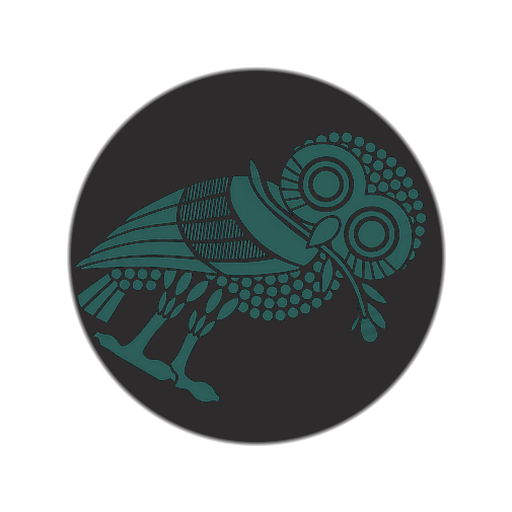
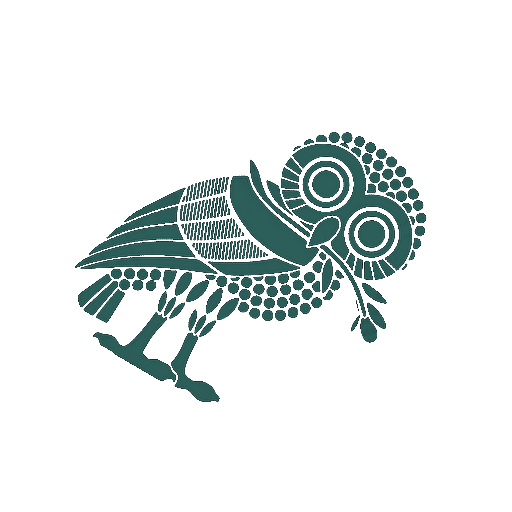
Create layered assets for individual component testing
Update component to display individual layered assets (background, ring, owl figure) for precise testing and debugging, replacing the previous combined transparent asset.

Replit-Commit-Author: Agent
Replit-Commit-Session-Id: 04d5841c-d248-48c3-af77-ece889ca9a93
Replit-Commit-Checkpoint-Type: full_checkpoint
Replit-Commit-Event-Id: 910019a2-971d-4da8-9506-e764f513de5c
Replit-Commit-Screenshot-Url: https://storage.googleapis.com/screenshot-production-us-central1/f2c73519-b3f3-4c33-90b1-699f833acae8/04d5841c-d248-48c3-af77-ece889ca9a93/T3JlsW4
Replit-Helium-Checkpoint-Created: true

diff --git a/artifacts/mockup-sandbox/src/components/mockups/owl-palette/NonNormativePalette.tsx b/artifacts/mockup-sandbox/src/components/mockups/owl-palette/NonNormativePalette.tsx
@@ -1,62 +1,83 @@
 export default function NonNormativePalette() {
   const b = import.meta.env.BASE_URL;
   const v = `?v=${Date.now()}`;
-  const nonnorm = `${b}owl-NONNORMATIVE-complete-transparent.png${v}`;
 
-  const containerStyle = (bg: string, bc: string): React.CSSProperties => ({
-    width: 160, height: 160,
-    borderRadius: "50%",
-    background: bg,
-    border: `3px solid ${bc}`,
-    display: "flex",
-    alignItems: "center",
-    justifyContent: "center",
-    overflow: "hidden",
-  });
-
-  const imgStyle: React.CSSProperties = {
-    width: "100%",
-    height: "100%",
-    display: "block",
-  };
+  const owlFigure = `${b}owl-NONNORMATIVE-owlonly.png${v}`;
+  const owlRing = `${b}owl-NONNORMATIVE-ring-transparent.png${v}`;
+  const owlComplete = `${b}owl-NONNORMATIVE-complete-transparent.png${v}`;
 
   const checkerBg = "repeating-conic-gradient(#ccc 0% 25%, #fff 0% 50%) 50% / 16px 16px";
+
+  const layeredSeal = (bg: string, size = 180) => (
+    <div style={{ position: "relative", width: size, height: size }}>
+      <div style={{
+        position: "absolute", inset: 0,
+        borderRadius: "50%",
+        background: bg,
+      }} />
+      <img src={owlRing} alt="" style={{
+        position: "absolute", inset: 0,
+        width: "100%", height: "100%",
+      }} />
+      <img src={owlFigure} alt="NON-NORMATIVE owl" style={{
+        position: "absolute",
+        top: "12%", left: "12%",
+        width: "76%", height: "76%",
+      }} />
+    </div>
+  );
 
   return (
     <div style={{ background: "#f5f0e8", padding: "32px 24px", fontFamily: "Georgia, serif", color: "#222", minHeight: "100vh" }}>
 
-      <h1 style={{ textAlign: "center", fontSize: "16px", color: "#1a1a1a", marginBottom: "8px", letterSpacing: "0.06em" }}>
-        NON-NORMATIVE OWL — Transparent Asset Proof
+      <h1 style={{ textAlign: "center", fontSize: "16px", color: "#1a1a1a", marginBottom: "6px", letterSpacing: "0.06em" }}>
+        NON-NORMATIVE OWL — Layered Asset Kit
       </h1>
       <p style={{ textAlign: "center", fontSize: "10px", color: "#888", marginBottom: "28px" }}>
-        Background color is on the container — the image is untouched transparent PNG
+        Three independent layers: background plate · ring · owl figure
       </p>
 
-      <div style={{ textAlign: "center", marginBottom: 32 }}>
-        <h2 style={{ fontSize: "11px", color: "#555", textTransform: "uppercase", letterSpacing: "0.1em", marginBottom: 12 }}>
-          Master — Native Size on Checkerboard
-        </h2>
-        <div style={{ display: "inline-block", background: checkerBg, padding: 0, borderRadius: 8 }}>
-          <img src={nonnorm} alt="Transparent proof" style={{ width: 256, height: 256, display: "block" }} />
+      <h2 style={{ textAlign: "center", fontSize: "11px", color: "#555", textTransform: "uppercase", letterSpacing: "0.1em", marginBottom: 16 }}>
+        Individual Layers (on checkerboard)
+      </h2>
+      <div style={{ display: "flex", gap: 32, justifyContent: "center", marginBottom: 36 }}>
+        <div style={{ textAlign: "center" }}>
+          <div style={{ width: 160, height: 160, background: checkerBg, borderRadius: 8, display: "flex", alignItems: "center", justifyContent: "center" }}>
+            <div style={{ width: 140, height: 140, borderRadius: "50%", background: "#1f3f3b" }} />
+          </div>
+          <div style={{ fontSize: 9, fontWeight: "bold", marginTop: 8, color: "#333" }}>Layer 1: Background</div>
+          <div style={{ fontSize: 8, color: "#999" }}>Circle plate #1f3f3b</div>
+        </div>
+        <div style={{ textAlign: "center" }}>
+          <div style={{ width: 160, height: 160, background: checkerBg, borderRadius: 8, display: "flex", alignItems: "center", justifyContent: "center" }}>
+            <img src={owlRing} alt="Ring layer" style={{ width: 140, height: 140 }} />
+          </div>
+          <div style={{ fontSize: 9, fontWeight: "bold", marginTop: 8, color: "#333" }}>Layer 2: Ring</div>
+          <div style={{ fontSize: 8, color: "#999" }}>owl-NONNORMATIVE-ring-transparent.png</div>
+        </div>
+        <div style={{ textAlign: "center" }}>
+          <div style={{ width: 160, height: 160, background: checkerBg, borderRadius: 8, display: "flex", alignItems: "center", justifyContent: "center" }}>
+            <img src={owlFigure} alt="Owl figure layer" style={{ width: 110, height: 110 }} />
+          </div>
+          <div style={{ fontSize: 9, fontWeight: "bold", marginTop: 8, color: "#333" }}>Layer 3: Owl Figure</div>
+          <div style={{ fontSize: 8, color: "#999" }}>owl-NONNORMATIVE-owlonly.png</div>
         </div>
       </div>
 
       <h2 style={{ textAlign: "center", fontSize: "11px", color: "#555", textTransform: "uppercase", letterSpacing: "0.1em", marginBottom: 16 }}>
-        Background Swatch Tests
+        Composed — Layers Stacked
       </h2>
-      <div style={{ display: "flex", gap: 20, justifyContent: "center", flexWrap: "wrap", marginBottom: 32 }}>
+      <div style={{ display: "flex", gap: 28, justifyContent: "center", flexWrap: "wrap", marginBottom: 36 }}>
         {[
-          { label: "Black", hex: "#0d1117", bc: "rgba(74,157,150,0.4)" },
-          { label: "Deep Teal", hex: "#17302d", bc: "rgba(74,157,150,0.5)" },
-          { label: "Rich Teal", hex: "#1f3f3b", bc: "rgba(74,157,150,0.6)" },
-          { label: "Verdigris", hex: "#2a504b", bc: "rgba(74,157,150,0.5)" },
-          { label: "White", hex: "#ffffff", bc: "rgba(50,120,110,0.4)" },
-          { label: "Cream", hex: "#f5f0e8", bc: "rgba(50,120,110,0.3)" },
+          { label: "Black", hex: "#0d1117" },
+          { label: "Deep Teal", hex: "#17302d" },
+          { label: "Rich Teal", hex: "#1f3f3b" },
+          { label: "Verdigris", hex: "#2a504b" },
+          { label: "Aegean", hex: "#36615b" },
+          { label: "White", hex: "#ffffff" },
         ].map((t) => (
           <div key={t.hex} style={{ textAlign: "center" }}>
-            <div style={containerStyle(t.hex, t.bc)}>
-              <img src={nonnorm} alt={t.label} style={imgStyle} />
-            </div>
+            {layeredSeal(t.hex)}
             <div style={{ fontSize: 9, fontWeight: "bold", marginTop: 8, color: "#333" }}>{t.label}</div>
             <div style={{ fontSize: 8, color: "#999", fontFamily: "monospace" }}>{t.hex}</div>
           </div>
@@ -64,22 +85,27 @@ export default function NonNormativePalette() {
       </div>
 
       <h2 style={{ textAlign: "center", fontSize: "11px", color: "#555", textTransform: "uppercase", letterSpacing: "0.1em", marginBottom: 16 }}>
-        No Circle — Flat on Backgrounds
+        Flattened Asset — Transparency Proof
       </h2>
-      <div style={{ display: "flex", gap: 20, justifyContent: "center" }}>
-        {[
-          { label: "Checkerboard", bg: checkerBg },
-          { label: "Black", bg: "#0d1117" },
-          { label: "Rich Teal", bg: "#1f3f3b" },
-          { label: "White", bg: "#ffffff" },
-        ].map((t) => (
-          <div key={t.label} style={{ textAlign: "center" }}>
-            <div style={{ width: 140, height: 140, background: t.bg, borderRadius: 8, display: "flex", alignItems: "center", justifyContent: "center" }}>
-              <img src={nonnorm} alt={t.label} style={{ width: 120, height: 120, display: "block" }} />
-            </div>
-            <div style={{ fontSize: 9, color: "#555", marginTop: 6 }}>{t.label}</div>
+      <div style={{ display: "flex", gap: 32, justifyContent: "center" }}>
+        <div style={{ textAlign: "center" }}>
+          <div style={{ display: "inline-block", background: checkerBg, borderRadius: 8 }}>
+            <img src={owlComplete} alt="Complete on checkerboard" style={{ width: 200, height: 200, display: "block" }} />
           </div>
-        ))}
+          <div style={{ fontSize: 9, color: "#555", marginTop: 6 }}>Checkerboard</div>
+        </div>
+        <div style={{ textAlign: "center" }}>
+          <div style={{ display: "inline-block", background: "#0d1117", borderRadius: 8 }}>
+            <img src={owlComplete} alt="Complete on black" style={{ width: 200, height: 200, display: "block" }} />
+          </div>
+          <div style={{ fontSize: 9, color: "#555", marginTop: 6 }}>Black</div>
+        </div>
+        <div style={{ textAlign: "center" }}>
+          <div style={{ display: "inline-block", background: "#1f3f3b", borderRadius: 8 }}>
+            <img src={owlComplete} alt="Complete on teal" style={{ width: 200, height: 200, display: "block" }} />
+          </div>
+          <div style={{ fontSize: 9, color: "#555", marginTop: 6 }}>Rich Teal</div>
+        </div>
       </div>
     </div>
   );
